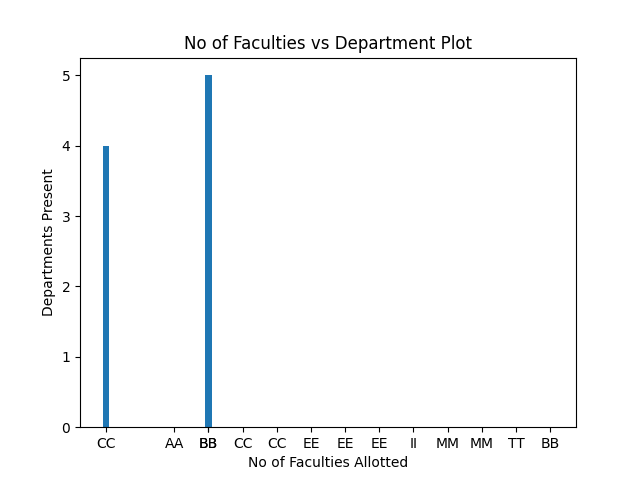
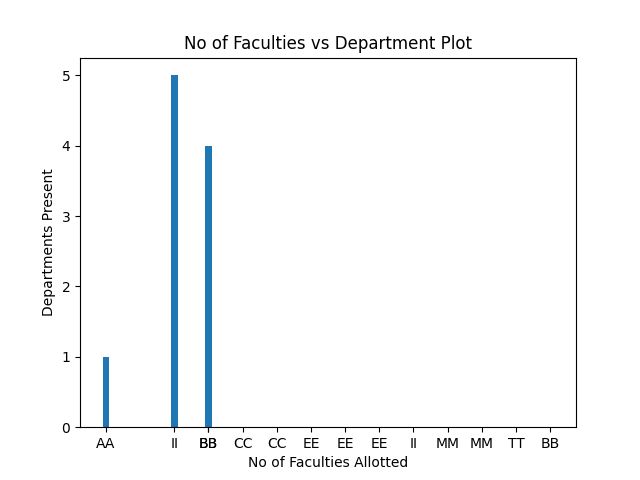
graphs are coming on website

diff --git a/templates/view-invi-duty.html b/templates/view-invi-duty.html
@@ -1,0 +1,58 @@
+{% include "header.html" %}
+<!--  <link rel="stylesheet" href="https://maxcdn.bootstrapcdn.com/bootstrap/4.0.0/css/bootstrap.min.css" integrity="sha384-Gn5384xqQ1aoWXA+058RXPxPg6fy4IWvTNh0E263XmFcJlSAwiGgFAW/dAiS6JXm" crossorigin="anonymous">-->
+<!--		<link href="https://cdn.jsdelivr.net/npm/bootstrap@5.2.0-beta1/dist/css/bootstrap.min.css" rel="stylesheet" integrity="sha384-0evHe/X+R7YkIZDRvuzKMRqM+OrBnVFBL6DOitfPri4tjfHxaWutUpFmBp4vmVor" crossorigin="anonymous">-->
+<!--<div id="main">-->
+<div id="main">
+						<div class="inner">
+							<header>
+								<h1>View Current Allocations</h1>
+							</header>
+
+{% if no_invi == False %}
+<table class="table table-striped table-light">
+  <thead class="thead-dark">
+    <tr>
+      <th scope="col">Faculty Id</th>
+      <th scope="col">Academic Year</th>
+      <th scope="col">Exam Type</th>
+      <th scope="col">Classroom ID</th>
+      <th scope="col">Department ID</th>
+      <th scope="col">Subject</th>
+      <th scope="col">Date</th>
+    </tr>
+  </thead>
+  <tbody>
+    {% for i in range(0, len_all_duties): %}
+    <tr>
+      <th scope="row">{{all_duties[i].faculty_id}}</th>
+      <td>{{ all_duties[i].academic_year }}</td>
+      <td>{{ all_duties[i].exam_type }}</td>
+      <td>{{ all_duties[i].classroom_id }}</td>
+      <td>{{ all_duties[i].department_id }}</td>
+      <td>{{ all_duties[i].subject_id }}</td>
+      <td>{{ dates[i] }}</td>
+    </tr>
+    {% endfor %}
+  </tbody>
+</table>
+{% else %}
+<p>No allocations have been made yet.</p>
+{% endif %}
+                          <form action="{{ url_for('allocate_invigilator')}}" method="post">
+                      <input class="btn btn-default" id="submit" name="submit" type="submit" value="Make New Allocs">
+          </form>
+                </div>
+</div>
+
+
+
+
+<!-- Footer -->
+
+
+<!-- Footer -->
+
+ <script src="https://cdn.jsdelivr.net/npm/bootstrap@5.2.0-beta1/dist/js/bootstrap.bundle.min.js" integrity="sha384-pprn3073KE6tl6bjs2QrFaJGz5/SUsLqktiwsUTF55Jfv3qYSDhgCecCxMW52nD2" crossorigin="anonymous"></script>
+
+
+{% include "footer.html" %}

diff --git a/templates/enter.html b/templates/enter.html
@@ -48,6 +48,11 @@
 								<h2>{{ title_given }}</h2>
 								<p> </p>
 							</header>
+							{% if title_given == "Login" %}
+							{% for message in get_flashed_messages() %}
+							{{ message }}
+							{% endfor %}
+							{% endif %}
                             <p> {{ wtf.quick_form(form) }}</p>
 							{% if title_given == "Register" %}
 							<p><b>Already Registered? Login <a href="{{ url_for('login') }}">here</a>.</b></p>

diff --git a/templates/algo-plot-admin.html b/templates/algo-plot-admin.html
@@ -10,8 +10,7 @@
 							</header>
 
 							<div style="justify-content:centre; display:flex; margin-top:60px">
-									<img src="{{ url }}" width="160%">
-
+									<img src="/static/img/algo_plot.png" width="160%">
 
 </div>
 						</div>

diff --git a/main.py b/main.py
@@ -493,7 +493,8 @@ def admin_add_exam():
 def admin_add_exam_date():
     form = ExamDate()
     if form.validate_on_submit():
-        existing_exam_date = Has_exam.query.filter_by(academic_year=form.academic_year.data).filter_by(exam_type=form.exam_type.data).filter_by(subject_id=form.subject_id.data).first()
+        existing_exam_date = Has_exam.query.filter_by(academic_year=form.academic_year.data).filter_by(
+            exam_type=form.exam_type.data).filter_by(subject_id=form.subject_id.data).first()
         if existing_exam_date:
             existing_exam_date.required_invigilators = form.required_invigilators.data
             existing_exam_date.exam_date = form.exam_date.data
@@ -528,9 +529,25 @@ def admin_edit_classroom():
             return redirect(url_for('admin'))
     return render_template("add_details.html", form=form, display_name="Admin! Update Classroom details below.")
 
-@app.route('/admin/allocate-invigilator', methods = ["GET", "POST"])
+
+@app.route('/admin/allocate-invigilator', methods=["GET", "POST"])
 def allocate_invigilator():
-    pass
+    r.run_the_algo()
+    all_duties = Invigilates.query.all()
+    all_has_exam = Has_exam.query.all()
+    dates = []
+    for i in all_duties:
+        for j in all_has_exam:
+            if i.academic_year == j.academic_year and i.exam_type == j.exam_type and i.subject_id == j.subject_id:
+                current_entry = Has_exam.query.filter_by(academic_year=i.academic_year).filter_by(exam_type=i.exam_type).filter_by(subject_id=i.subject_id).first()
+                dates.append(current_entry.exam_date)
+            else:
+                dates.append("No date assigned yet.")
+    no_invi = False
+    if len(all_duties) == 0:
+        no_invi = True
+    return render_template("view-invi-duty.html", all_duties=all_duties, dates=dates, no_invi=no_invi, len_all_duties = len(all_duties))
+
 
 @app.route('/admin/view-faculties')
 def view_faculties():
@@ -602,7 +619,6 @@ def logout():
 
 
 @app.route('/secrets')
-# @login_required
 def secrets():
     display_name = request.args.get("display_name")
     return render_template("secrets.html", display_name=display_name)

diff --git a/form_data.py b/form_data.py
@@ -35,7 +35,7 @@ class RegisterForm(FlaskForm):
 
 
 class FacultyForm(FlaskForm):
-    faculty_id = StringField('Faculty Id', validators=[DataRequired()], render_kw={'readonly': True})
+    faculty_id = StringField('Faculty Id', validators=[DataRequired()])
     email = StringField('Faculty Email', validators=[DataRequired(), Email()], render_kw={'readonly': True})
     f_name = StringField('First name', validators=[DataRequired()])
     m_name = StringField('Middle name')

diff --git a/run.py b/run.py
@@ -58,6 +58,7 @@ def run_the_algo():
     for row in records:
         faculty.append(row[0])
         invig_count.append(row[1])
+    plt.switch_backend('agg')
     plt.bar(faculty, invig_count)
     plt.xlabel("Faculty ID")
     plt.ylabel("Invigilator Count")
